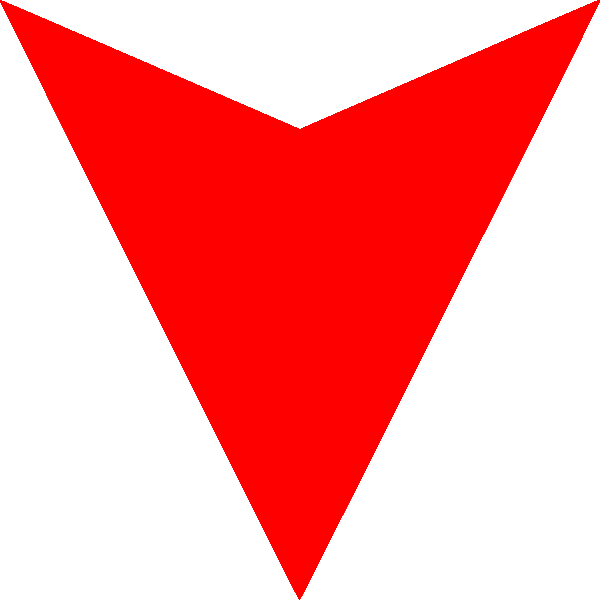
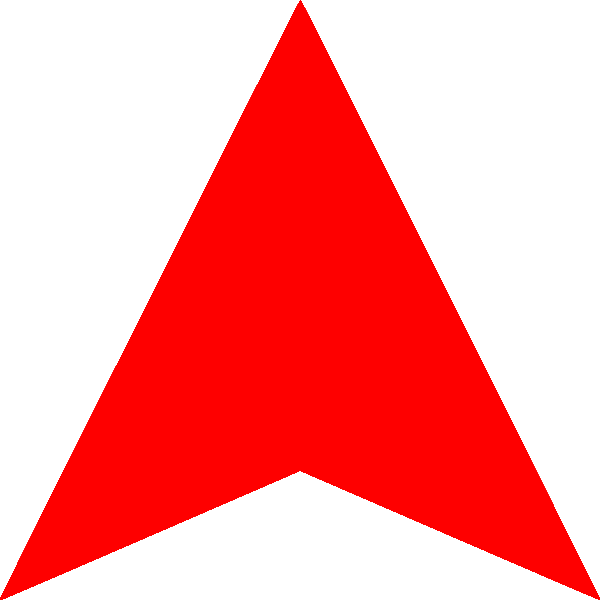
up

diff --git a/test1.html b/test1.html
@@ -72,7 +72,7 @@
         map.on('load', function () {
 
 
-            d3.csv("pathWind.1.csv").then(function (data) {
+            d3.csv("pathWind.3.csv").then(function (data) {
 
                 console.log('data', data);
 
@@ -88,9 +88,11 @@
                     const endLng = +data[i + 1].longitude
                     const bearing = turf.bearing(turf.point([startLng, startLat]), turf.point([endLng, endLat]));
 
-                    console.log('bearing', bearing);
-                    const angle = bearing + parseInt(data[i].direction)
+                    const angle = 180 - parseInt(data[i].direction) + bearing
+
+                    console.log('bearing', data[i].index, "=", bearing, parseInt(data[i].direction));
                     console.log('angle', angle);
+                    console.log('-------------------',);
 
 
                     const endPoint = calculateEndPoint(startLat, startLng, angle, +data[i].speed * 10);
@@ -100,8 +102,8 @@
                         geometry: {
                             type: 'LineString',
                             coordinates: [
-                                [endPoint.longitude, endPoint.latitude],
-                                [startLng, startLat]
+                                [startLng, startLat],
+                                [endPoint.longitude, endPoint.latitude]
                             ]
                         },
                         properties: {
@@ -111,7 +113,7 @@
                     })
                 }
 
-                const pins = data.map(d => {
+                const pins = data.map((d) => {
                     return {
                         type: 'Feature',
                         geometry: {
@@ -120,7 +122,8 @@
                         },
                         properties: {
                             title: d.speed,
-                            description: d.direction
+                            description: d.direction,
+                            index: d.index
                         }
                     }
                 });
@@ -178,10 +181,11 @@
                 layout: {
                     'icon-image': 'arrow',
                     'icon-rotate': ['get', 'direction'],
-                    'icon-size': 0.015,
+                    'icon-size': 0.02,
                     'icon-allow-overlap': true
                 }
             });
+
 
             map.addSource('points', {
                 type: 'geojson',
@@ -190,13 +194,26 @@
                     features: []
                 }
             });
+            // map.addLayer({
+            //     id: 'circles',
+            //     type: 'circle',
+            //     source: 'points',
+            //     paint: {
+            //         'circle-radius': 5,
+            //         'circle-color': 'blue'
+            //     }
+            // });
+            //add text 
             map.addLayer({
-                id: 'circles',
-                type: 'circle',
+                id: 'text',
+                type: 'symbol',
                 source: 'points',
-                paint: {
-                    'circle-radius': 5,
-                    'circle-color': 'blue'
+                layout: {
+                    'text-field': ['get', 'index'],
+                    'text-variable-anchor': ['top', 'bottom', 'left', 'right'],
+                    'text-radial-offset': 0.5,
+                    'text-justify': 'auto',
+                    'text-size': 12
                 }
             });
         });

diff --git a/test2.html b/test2.html
@@ -89,7 +89,7 @@
                     const bearing = turf.bearing(turf.point([startLng, startLat]), turf.point([endLng, endLat]));
 
                     console.log('bearing', bearing);
-                    const angle = bearing + parseInt(data[i].direction)
+                    const angle = bearing - parseInt(data[i].direction)
                     console.log('angle', angle);
 
 
